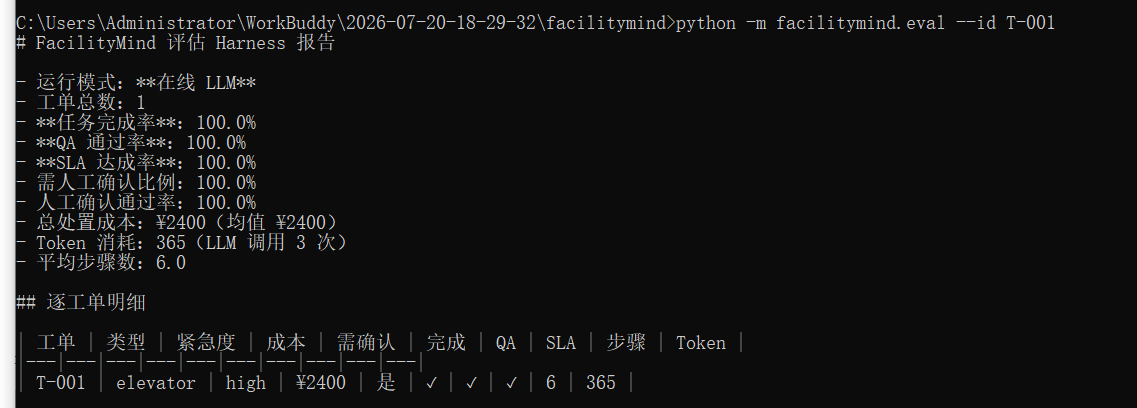
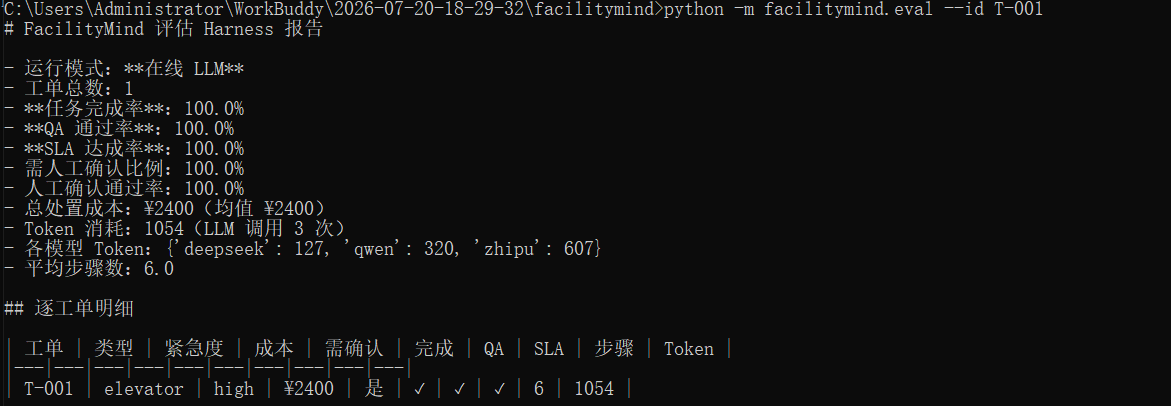
feat: 新增模型用量统计与看板展示，更新模型配置

Changed region(s): [[0.0, 0.0, 0.9235, 1.0]]

diff --git a/facilitymind/web/static/index.html b/facilitymind/web/static/index.html
@@ -106,6 +106,16 @@
         <div class="relative" style="height:240px"><canvas id="chart-cost"></canvas></div>
       </div>
     </div>
+    <div class="grid grid-cols-1 lg:grid-cols-2 gap-4 mb-5">
+      <div class="bg-white border border-slate-200 rounded-xl p-4">
+        <h3 class="text-sm font-semibold text-slate-700 mb-3">各模型 Token 消耗</h3>
+        <div class="relative" style="height:240px"><canvas id="chart-model-tokens"></canvas></div>
+      </div>
+      <div class="bg-white border border-slate-200 rounded-xl p-4">
+        <h3 class="text-sm font-semibold text-slate-700 mb-3">模型用量明细</h3>
+        <div id="model-tokens-legend" class="text-xs text-slate-600 space-y-1"></div>
+      </div>
+    </div>
     <div class="bg-white border border-slate-200 rounded-xl p-4">
       <h3 class="text-sm font-semibold text-slate-700 mb-3">逐工单明细</h3>
       <div id="eval-table" class="overflow-x-auto"></div>
@@ -116,11 +126,13 @@
     const ORDER = ["intake", "diagnose", "dispatch", "approval", "qa", "report"];
     const LABELS = { intake: "受理", diagnose: "诊断", dispatch: "派单", approval: "人工确认", qa: "质检", report: "报告" };
     let tickets = [], selected = null, es = null;
-    let evalData = null, ratesChart = null, costChart = null;
+    let evalData = null, ratesChart = null, costChart = null, modelTokenChart = null;
+    let MODEL_LABELS = {};
 
     const $ = (id) => document.getElementById(id);
     const esc = (s) => String(s ?? "").replace(/[&<>]/g, c => ({ "&": "&amp;", "<": "&lt;", ">": "&gt;" }[c]));
     const pct = (x) => (x * 100).toFixed(1) + "%";
+    const mLabel = (name) => MODEL_LABELS[name] || name;
 
     /* ---------- 工单看板 ---------- */
     async function loadTickets() {
@@ -282,8 +294,8 @@
       });
 
       es.addEventListener("done", (ev) => {
-        const { result } = JSON.parse(ev.data);
-        renderResult(result);
+        const { result, tokens, model_tokens, llm_calls } = JSON.parse(ev.data);
+        renderResult(result, { tokens, model_tokens, llm_calls });
         closeES();
       });
 
@@ -304,10 +316,27 @@
       $("run-btn").textContent = "重新运行";
     }
 
-    function renderResult(r) {
+    function renderResult(r, meta) {
+      // meta 优先取实时推送的 token；从 /api/result 复看时 token 已并入 r
+      meta = meta || { tokens: r.tokens, model_tokens: r.model_tokens, llm_calls: r.llm_calls };
       const d = r.diagnosis || {}, p = r.dispatch_plan || {}, a = r.approval || {}, q = r.qa || {}, rp = r.report || {};
       const card = (title, body) => `<div class="border border-slate-100 rounded-lg p-3 bg-slate-50">
         <div class="text-xs font-semibold text-slate-500 mb-1">${title}</div><div class="text-sm text-slate-800">${body}</div></div>`;
+
+      // 按模型拆分的 token 消耗面板
+      const mt = (meta.model_tokens || {});
+      const entries = Object.entries(mt).filter(([, v]) => v > 0);
+      const tokenPanel = `
+        <div class="mt-3 border border-slate-100 rounded-lg p-3 bg-slate-50">
+          <div class="text-xs font-semibold text-slate-500 mb-2">Token 消耗（按模型）</div>
+          <div class="flex flex-wrap gap-2">
+            ${entries.length
+              ? entries.map(([m, v]) => `<span class="text-xs px-2 py-1 rounded-full bg-indigo-50 text-indigo-700">${esc(mLabel(m))} · ${v}</span>`).join("")
+              : '<span class="text-xs text-slate-400">无（规则模式未调用大模型）</span>'}
+          </div>
+          <div class="text-[11px] text-slate-400 mt-1.5">合计 ${meta.tokens || 0} token · LLM 调用 ${meta.llm_calls || 0} 次</div>
+        </div>`;
+
       $("result").innerHTML = `
         <h2 class="text-sm font-semibold text-slate-700 mb-3">结案结果</h2>
         <div class="grid grid-cols-1 md:grid-cols-2 gap-3">
@@ -316,7 +345,8 @@
           ${card("人工确认", `${a.approved ? "<span class='text-green-600'>已批准</span>" : "<span class='text-red-600'>驳回/未批</span>"}<div class='text-xs text-slate-500 mt-1'>${esc(a.status || "")} · ${esc(a.approver || "")}</div>`)}
           ${card("质检", `${q.passed ? "<span class='text-green-600'>通过</span>" : "<span class='text-red-600'>未通过</span>"} · 得分 ${q.score ?? "—"}<div class='text-xs text-slate-500 mt-1'>${(q.issues && q.issues.length) ? "问题：" + esc(q.issues.join("、")) : "无遗留问题"}</div>`)}
         </div>
-        ${rp.summary ? `<div class="mt-3">${card("复盘报告", `${esc(rp.summary)}${(rp.recommendations || []).length ? `<ul class='list-disc ml-5 mt-1 text-xs text-slate-600'>${rp.recommendations.map(x => `<li>${esc(x)}</li>`).join("")}</ul>` : ""}`)}</div>` : ""}`;
+        ${rp.summary ? `<div class="mt-3">${card("复盘报告", `${esc(rp.summary)}${(rp.recommendations || []).length ? `<ul class='list-disc ml-5 mt-1 text-xs text-slate-600'>${rp.recommendations.map(x => `<li>${esc(x)}</li>`).join("")}</ul>` : ""}`)}</div>` : ""}
+        ${tokenPanel}`;
       $("result").classList.remove("hidden");
     }
 
@@ -346,7 +376,7 @@
         card("需人工确认比例", pct(m.approval_required_rate), "成本超阈值"),
         card("总处置成本", "¥" + Math.round(m.total_cost), `均值 ¥${Math.round(m.avg_cost)}/单`),
         card("平均步骤数", m.avg_steps.toFixed(1), "经 Agent 节点"),
-        card("Token 消耗", m.total_tokens, `LLM 调用 ${m.total_llm_calls} 次`),
+        card("Token 消耗", m.total_tokens, `LLM 调用 ${m.total_llm_calls} 次${Object.keys(m.model_usage || {}).length ? ` · ${Object.keys(m.model_usage).length} 个模型` : ""}`),
         card("平均 LLM 调用", m.total_llm_calls ? (m.total_llm_calls / m.total).toFixed(1) : "0", "每单"),
       ].join("");
 
@@ -387,6 +417,34 @@
         },
       });
 
+      // 各模型 token 消耗（横向条形）
+      const mu = m.model_usage || {};
+      const muEntries = Object.entries(mu).filter(([, v]) => v > 0);
+      if (modelTokenChart) modelTokenChart.destroy();
+      modelTokenChart = new Chart($("chart-model-tokens"), {
+        type: "bar",
+        data: {
+          labels: muEntries.map(([name]) => mLabel(name)),
+          datasets: [{
+            label: "Token",
+            data: muEntries.map(([, v]) => v),
+            backgroundColor: ["#4f46e5", "#10b981", "#f59e0b", "#ef4444", "#0ea5e9"],
+          }],
+        },
+        options: {
+          indexAxis: "y",
+          responsive: true, maintainAspectRatio: false,
+          scales: { x: { beginAtZero: true } },
+          plugins: { legend: { display: false }, tooltip: { callbacks: { label: (c) => c.parsed.x + " token" } } },
+        },
+      });
+      $("model-tokens-legend").innerHTML = muEntries.length
+        ? muEntries.map(([name, v]) => `<div class="flex items-center justify-between border-b border-slate-100 py-1.5">
+            <span class="text-slate-700">${esc(mLabel(name))}</span>
+            <span class="font-semibold text-slate-900">${v}<span class="text-slate-400 font-normal"> token</span></span>
+          </div>`).join("")
+        : '<div class="text-slate-400">无（规则模式下未调用大模型，Token 恒为 0）</div>';
+
       // 明细表
       const head = `<tr class="text-slate-500 border-b border-slate-200">
         <th class="text-left py-1.5 pr-2">工单</th><th class="text-left">类型</th><th class="text-left">紧急度</th>
@@ -425,6 +483,11 @@
     (async () => {
       $("mode-badge").textContent = "规则/LLM 自动切换";
       $("mode-badge").className = "px-2.5 py-1 rounded-full bg-emerald-50 text-emerald-700";
+      try {
+        const mr = await fetch("/api/models");
+        const mj = await mr.json();
+        MODEL_LABELS = Object.fromEntries((mj.models || []).map(m => [m.name, m.label]));
+      } catch (_) { /* 模型名回退为原始 key */ }
     })();
     loadTickets();
   </script>

diff --git a/facilitymind/web/server.py b/facilitymind/web/server.py
@@ -24,6 +24,7 @@ from pydantic import BaseModel
 from ..dataio import load_tickets
 from ..eval import aggregate, run_one
 from ..graph import app as engine
+from ..llm import calls_breakdown, list_models, usage_breakdown
 
 STATIC_DIR = os.path.join(os.path.dirname(__file__), "static")
 
@@ -51,6 +52,8 @@ TYPE_CN = {
 
 # 进程内内存存储：thread_id -> 最终归并状态（去掉 messages）
 RUNS: dict[str, dict] = {}
+# thread_id -> 本单的 token 计量（按模型拆分），与 RUNS 配套展示
+RUN_META: dict[str, dict] = {}
 
 # M3 网页人工确认所需的等待队列：ticket_id -> threading.Event
 PENDING: dict[str, threading.Event] = {}
@@ -102,10 +105,18 @@ def api_tickets():
 
 @api.get("/api/result/{ticket_id}")
 def api_result(ticket_id: str):
-    """返回内存中某工单最近一次运行的完整结果。"""
+    """返回内存中某工单最近一次运行的完整结果（含按模型的 token 计量）。"""
     if ticket_id not in RUNS:
         return JSONResponse({"error": "尚无运行结果"}, status_code=404)
-    return RUNS[ticket_id]
+    data = dict(RUNS[ticket_id])
+    data.update(RUN_META.get(ticket_id, {}))  # 合并 tokens / model_tokens / llm_calls
+    return data
+
+
[email redacted]("/api/models")
+def api_models():
+    """返回已声明模型清单（name / label / available），供前端展示友好名称。"""
+    return {"models": list_models()}
 
 
 class ApprovalDecision(BaseModel):
@@ -143,6 +154,11 @@ def _run_stream(ticket: dict, auto_approve: bool, pace: float, ensemble: bool = 
     """逐节点运行流水线并以 SSE 事件产出；auto_approve=False 时支持 M3 网页人工确认。"""
     config = {"configurable": {"thread_id": ticket["id"]}}
     initial = {"ticket": ticket, "auto_approve": auto_approve, "ensemble": ensemble}
+
+    # 跑之前快照各模型累计用量；结束后做差得到"本单"消耗（注册表为进程级全局累加）。
+    # 并发跑多条流水线时差值可能互串，Demo 场景为单流顺序执行，足够准确。
+    _before_tok = usage_breakdown()
+    _before_call = calls_breakdown()
 
     yield _sse("start", {"ticket_id": ticket["id"], "order": NODE_ORDER})
 
@@ -186,7 +202,31 @@ def _run_stream(ticket: dict, auto_approve: bool, pace: float, ensemble: bool = 
         # 取最终归并状态存内存，供看板复看
         final_state = _clean(engine.get_state(config).values)
         RUNS[ticket["id"]] = final_state
-        yield _sse("done", {"ticket_id": ticket["id"], "result": final_state})
+
+        # 计算本单各模型 token / 调用消耗（做差）
+        _after_tok = usage_breakdown()
+        _after_call = calls_breakdown()
+        models = sorted(set(_before_tok) | set(_after_tok))
+        model_tokens = {m: max(0, _after_tok.get(m, 0) - _before_tok.get(m, 0)) for m in models}
+        model_calls = {m: max(0, _after_call.get(m, 0) - _before_call.get(m, 0)) for m in models}
+        tokens = sum(model_tokens.values())
+        calls = sum(model_calls.values())
+        RUN_META[ticket["id"]] = {
+            "tokens": tokens,
+            "model_tokens": model_tokens,
+            "model_calls": model_calls,
+            "llm_calls": calls,
+        }
+        yield _sse(
+            "done",
+            {
+                "ticket_id": ticket["id"],
+                "result": final_state,
+                "tokens": tokens,
+                "model_tokens": model_tokens,
+                "llm_calls": calls,
+            },
+        )
     except Exception as exc:  # 兜底：任何异常都通过 SSE 反馈前端，避免连接静默中断
         yield _sse("error", {"message": f"{type(exc).__name__}: {exc}"})
 

diff --git a/facilitymind/llm.py b/facilitymind/llm.py
@@ -151,6 +151,11 @@ def usage_breakdown() -> dict:
     return {name: c.total_tokens for name, c in _REGISTRY.items()}
 
 
+def calls_breakdown() -> dict:
+    """各模型已调用次数快照（与 usage_breakdown 配套，供 Dashboard 按模型拆分计量）。"""
+    return {name: c.call_count for name, c in _REGISTRY.items()}
+
+
 def total_tokens_all() -> int:
     return sum(c.total_tokens for c in _REGISTRY.values())
 